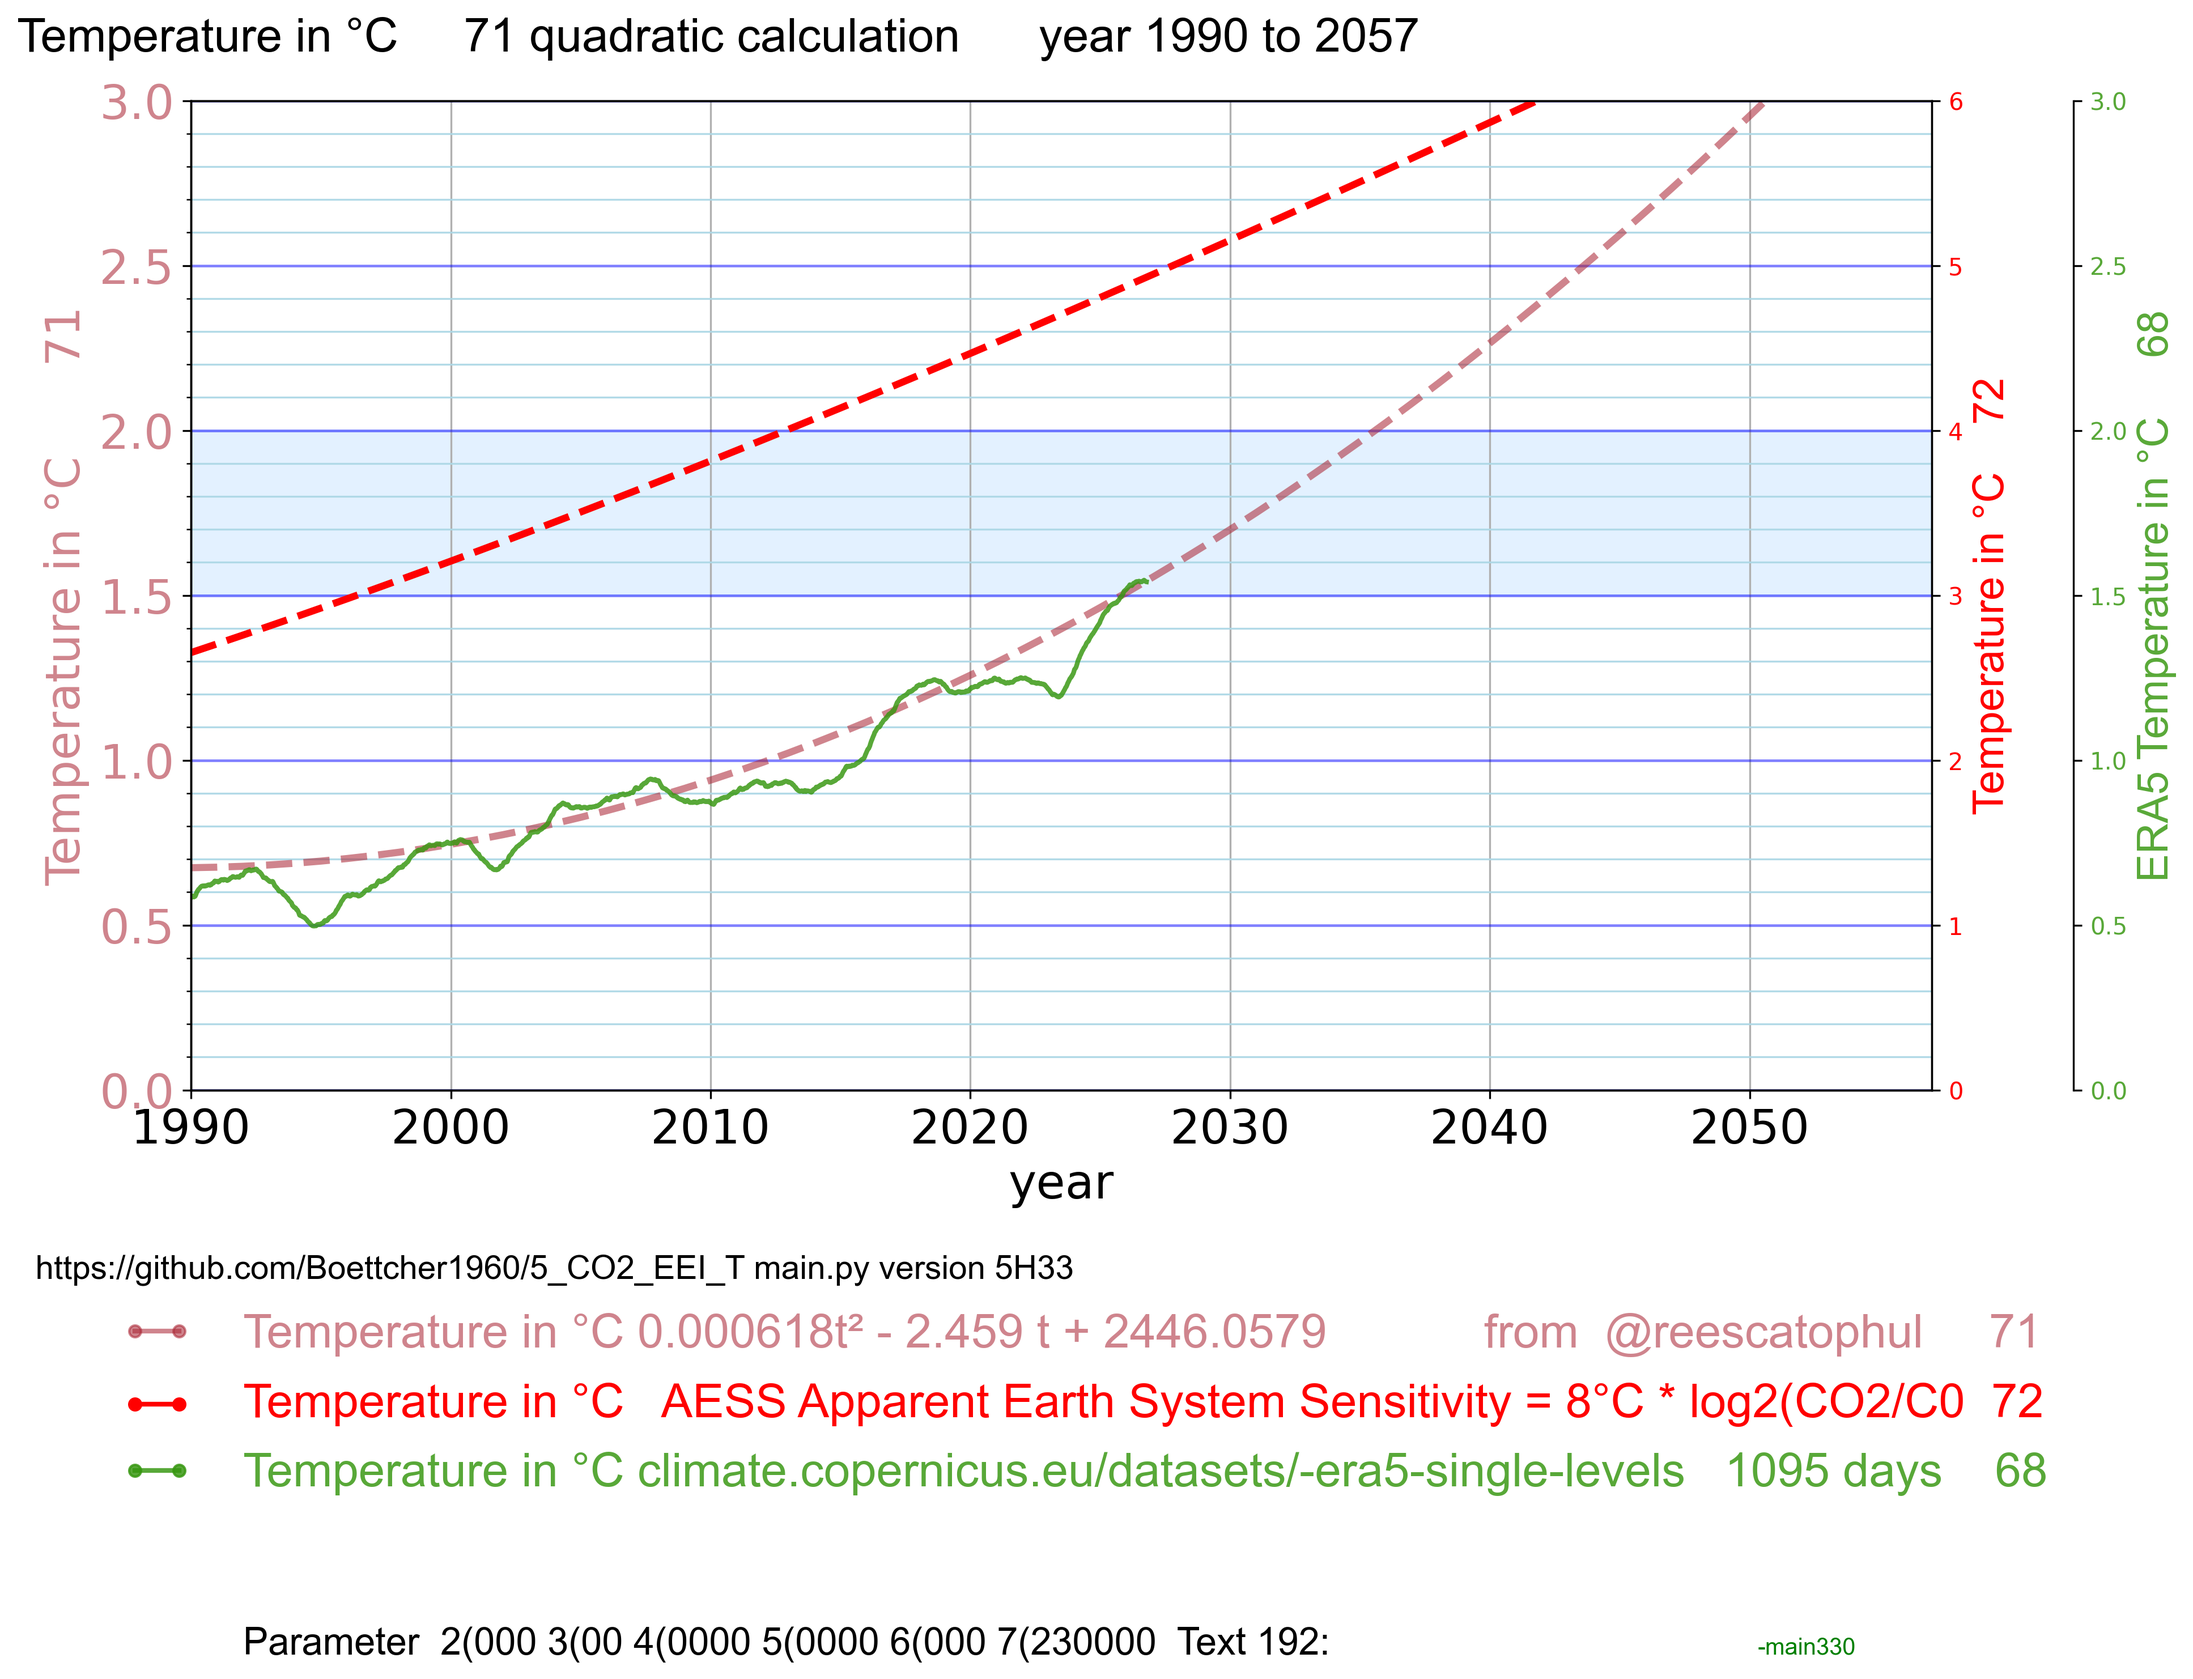
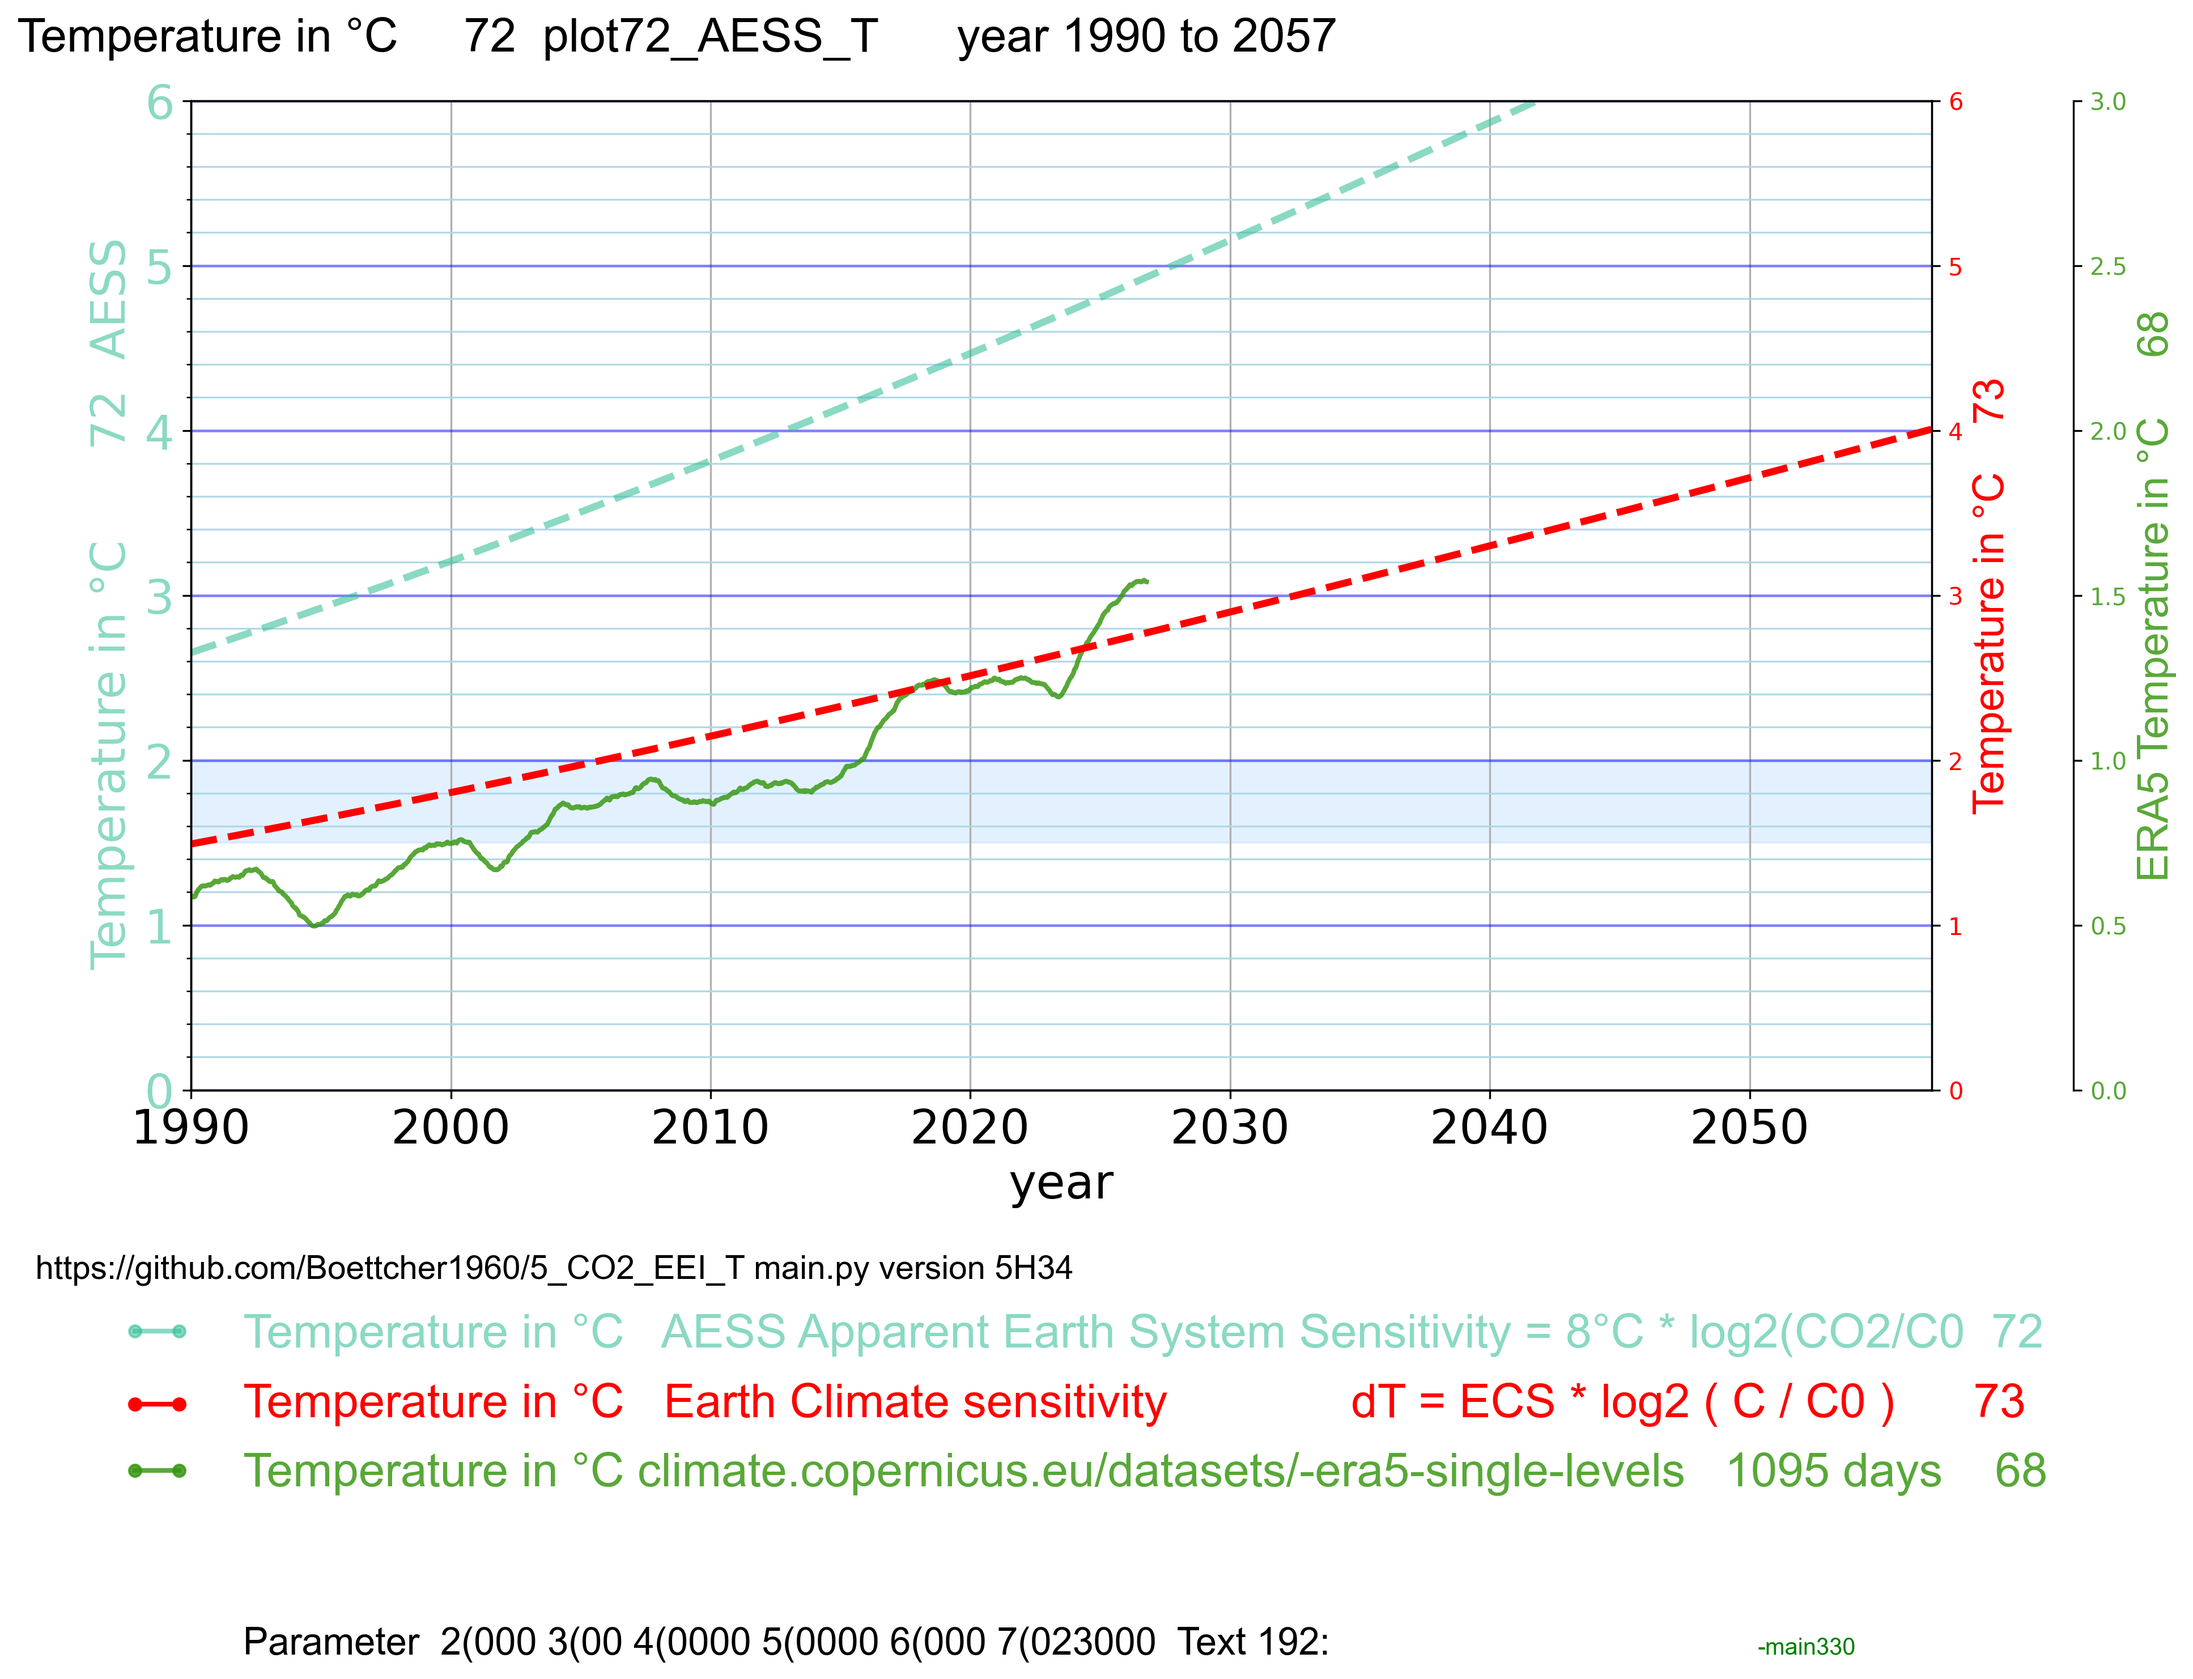
h34

diff --git a/plotting.py b/plotting.py
@@ -551,6 +551,23 @@ def plot8_right_y_axe_for_T_72(ax72,right52): # 72.6 plot71_temperature
     ax72.tick_params(axis="y", labelcolor=c72)   # 71.70 
     ax72.set_ylim(y_72min, y_72max) # 71.72 the plotted values outside the graph y xis
 
+# 72.57 call plotting.px line 538
+def plot8_right_y_axe_for_T_73(ax73,right52): # 72.6 plot72_temperature
+    if right52 > 0:
+        outward_right = right52
+    elif plot73_ECS_T == 3: # 72.61 scale for line 3 the first y axis on the left
+        outward_right =  ( 2.5 * yr_60 ) - yr_150
+    elif plot73_ECS_T == 4: # 72.62 scale for line 4 the second y axis on the left
+            outward_right =  ( 4.5 * yr_60 ) - yr_150    
+    else: # 73.62 scale for 
+        outward_right =  ( plot73_ECS_T * yr_60 ) - yr_150
+    # 73.67    
+    ax73.spines.right.set_position(("outward", outward_right))    # 73.67 
+    ax73.set_ylabel("Temperature in °C    73", color=c73, fontname="Arial",fontsize=18)  # 73.68
+    ax73.tick_params(axis="y", labelcolor=c73)   # 72.70 
+    ax73.set_ylim(y_73min, y_73max) # 73.72 the plotted values outside the graph y xis
+
+
 
 # plot8_right_y_axe_for_T_74 ,     plot74_GIS_T  ,   GISS Temperature         ,  line  421
 def plot8_right_y_axe_for_T_74(ax74,right52): # 74.6 
@@ -1203,19 +1220,14 @@ def plot_9_create_all_plots(ax1, data):
        
 
 
-    if plot73_ECS_T > 0 : # 73.4
+    if plot73_ECS_T > 0 : # 73.40
         # plot73_ECS_T Earth Climate sensitivity 
         # 7.3  dT=ECS*log2(C/C0) # T560ppm=ECS*log2(560/280) 
-        def T_model73(t):
-           CO2= 0.0132251 * t**2 - 51.0337 * t + 49536.7 # Glen formula
-           log2_value = np.log2(CO2/C280)
-           ECS = 4.5
-           temp73 = ECS * log2_value
-           return temp73
-        # 7.3.2 years scale x axis
+        # 73.41 years scale x axis
         years73 = np.arange(x_anf, x_end + 1 )
-        T_73values = T_model73(years73)
-        # 7.3.4. Create DataFrame for convenience
+        # 73.44 call define T_72: from models.py line 570     
+        T_73values = T_73(years73)
+        # 73.4 Create DataFrame for convenience
         df73 = pd.DataFrame({
                "Year73": years73,
                "Modeled73": T_73values })
@@ -1223,10 +1235,11 @@ def plot_9_create_all_plots(ax1, data):
         ax73 = ax1.twinx()  # twinx(): Shares the same x-axis Adds a new y-axis on the right
         ax73.plot(df73["Year73"], df73["Modeled73"], '--', label="T formula CO2=  K73", color=c73, linewidth=3)
         ax73.tick_params(axis="y", labelcolor=c73)
-        ax73.set_ylim(y_Tmin, y_Tmax) # scale
-        # end 7.3
-        # plot8_right_y_axe_for_T_74(ax74,0) # 74.5 line 356
-
+        ax73.set_ylim(y_73min, y_73max) #  # 73.64 scale
+        # 72.66 call plotting.px line 520
+        if plot73_ECS_T > 2:
+            plot8_right_y_axe_for_T_73(ax73,0)
+       
     # plot74_GIS_T,   GIS temperature add 0.3°C like Hansen    ,  plot_9_create_all_plots() ,   line 1040
     if plot74_GIS_T > 0 : # 74.4
         if plot74_GIS_T == 2:

diff --git a/config.py b/config.py
@@ -53,9 +53,9 @@ play_66_OLR = 0 # 12, 24 looks like GISS temp 48, 36, 24, 12 ok outgoing longwav
 play_67_albedo = 0   # create 1..12..48..99 CERES
 play68_ERA = 1095 # 1461, 1095, 720, 365, 24     # https://sites.ecmwf.int/data/climatepulse/data/series/era5_daily_series_2t_global.csv
 
-plot71_temperature = 2 # 2 3 5
-plot72_AESS_T = 3 # 2 , 3 
-plot73_ECS_T = 0
+plot71_temperature = 0 # 2 3 5
+plot72_AESS_T = 2 # 2 , 3 
+plot73_ECS_T = 3
 plot74_GIS_T = 0 # 2, 3,4,5 =right y axis
 linear_41_75 = 0 # 3 4 5
 plot76_my_T = 0
@@ -101,7 +101,7 @@ c68 = "#36970FD4"
 c71 = "red"
 c71 =  "#AB263590"
 c72 =  "#31BD9590"
-c72 =  "red"
+c73 =  "red"
 c74 = "red"
 #c74 = "#9522AA90"
 c75 = "#371EA484"
@@ -127,6 +127,8 @@ text71 = "Temperature in °C 0.000618t² - 2.459 t + 2446.0579            from  
 # "Temperature in °C 0.000618t² - 2.459 t + 2446.0579                       @reescatophul     71", 
 # "Temperature in °C 0.0004t² + 0.0019 t + 0.5079     from Tom Harris                         71", 
 text72 = "Temperature in °C   AESS Apparent Earth System Sensitivity = 8°C * log2(CO2/C0  72"
+text73 = "Temperature in °C   Earth Climate sensitivity              dT = ECS * log2 ( C / C0 )      73"
+
 my76_text = "guessed quadratic temperature my_T 76"
 
 
@@ -202,7 +204,8 @@ y_71min = 0
 y_71max = 3 # 1.7
 y_72min = 0
 y_72max = 6 # 
-
+y_73min = 0
+y_73max = 6 # 
 y_74min = 0.8 # for GIS Temperature 
 y_74max = 2.6  # for GIS Temperature 
 y_75min = 0.2 #  Temperature  

diff --git a/models.py b/models.py
@@ -515,7 +515,7 @@ def T_model71_not_called(t):
 
 
 #########################################################
-# 72     plot72_AESS_T   ##############################
+# 72     plot72_AESS_T     ##############################
 #########################################################
 #
 # plot72_AESS_T= 4 # apparent Earth system sensitivity (AESS=7.7°C)
@@ -546,3 +546,16 @@ def T_72(t):
           return temp72
 # 2026.10.22 plots plot72_AESS_T = 2
 # 2026.10.22 plots plot72_AESS_T = 3
+
+
+#########################################################
+# 73     plot73_ECS_T     ##############################
+#########################################################
+# plot73_ECS_T Earth Climate sensitivity 
+# 7.3  dT=ECS*log2(C/C0) # T560ppm=ECS*log2(560/280) 
+def T_73(t):
+           CO2= 0.0132251 * t**2 - 51.0337 * t + 49536.7 # Glen formula
+           log2_value = np.log2(CO2/C280)
+           ECS = 4.5
+           temp73 = ECS * log2_value
+           return temp73

diff --git a/text.py b/text.py
@@ -322,6 +322,9 @@ def text_9_print_7_lines(fig, ax1, header_parameter):
     elif plot72_AESS_T == 3: # 72.5 legend
         text_3_add_legend_line(fig, lr2x1, lr2x2, lr3y, c72)
         text_4_add_text(ax1, tr2x, tr3y, text72, c72, trs)
+    elif plot73_ECS_T == 3: # 73.5 legend
+        text_3_add_legend_line(fig, lr2x1, lr2x2, lr3y, c73)
+        text_4_add_text(ax1, tr2x, tr3y, text73, c73, trs)
     elif plot74_GIS_T == 3: # 74.6
         text_3_add_legend_line(fig, lr2x1, lr2x2, lr3y, c74)
         text_4_add_text(ax1, tr2x, tr3y, 

diff --git a/main.py b/main.py
@@ -1,5 +1,5 @@
 # main.py
-v = "5H33" # line2_play = 61
+v = "5H34" # line2_play = 61
 # https://github.com/Boettcher1960/5_CO2_EEI_T
 # ocean stratification https://bsky.app/profile/thomas-boettcher.bsky.social/post/3mj7zx7fzsc26
 # https://drtomharris.substack.com/p/the-great-decoupling-how-ocean-stratification
